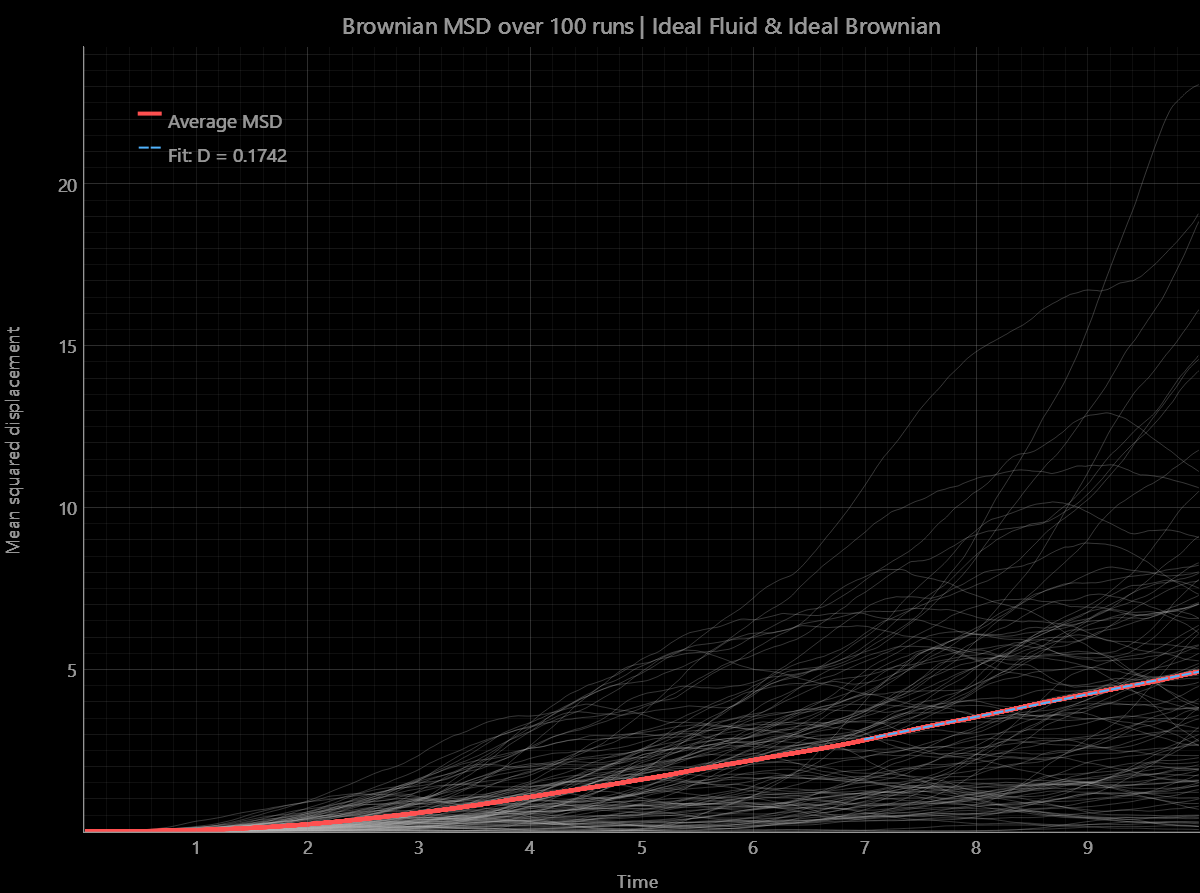
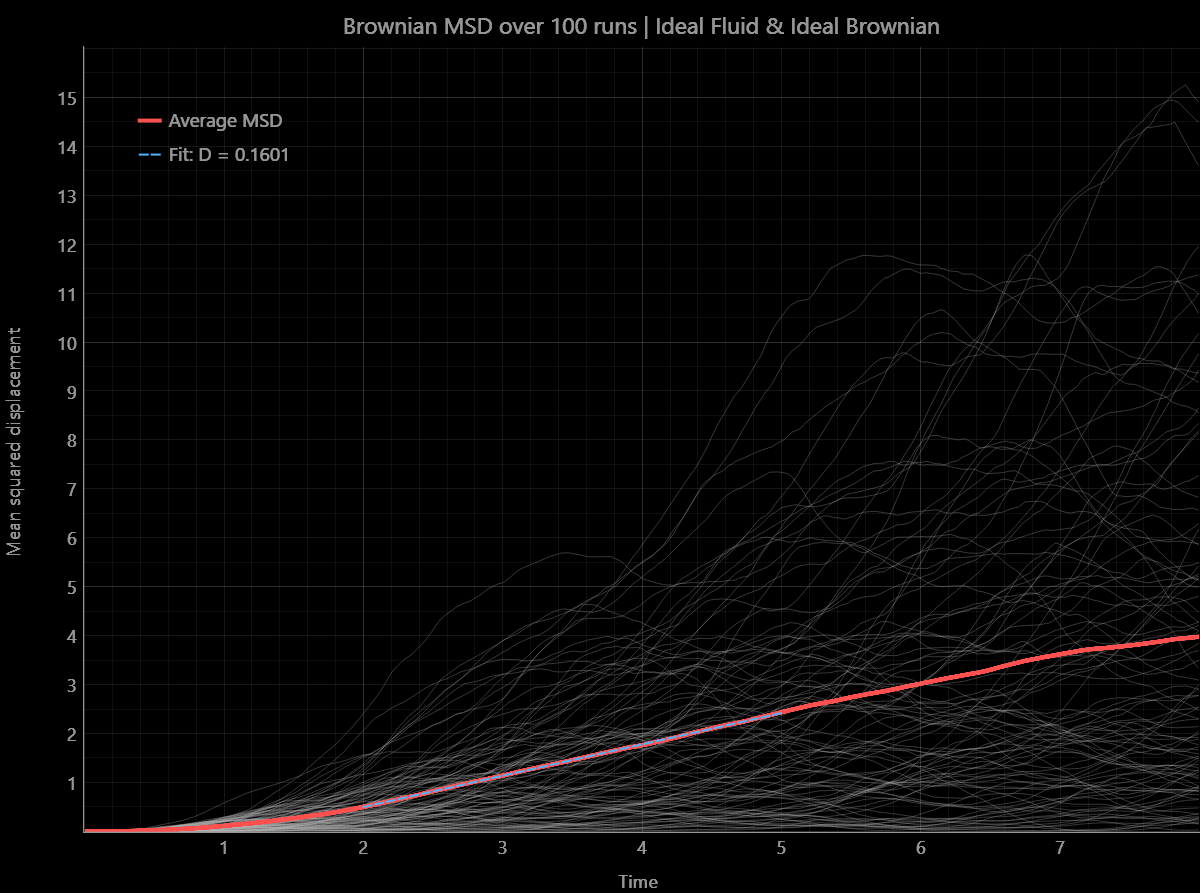
Added plots from sim runs

diff --git a/config/main_configs.py b/config/main_configs.py
@@ -68,9 +68,9 @@ DEBUG_CONFIG = {
 IDEAL_CONFIG = {
     # Simulation Settings
     "dt": 0.01,
-    "steps": 1000,
-    "box_size": 10.0,
-    "N": 1000,
+    "steps": 800,
+    "box_size": 8.0,
+    "N": 500,
     "live_render": False,
     "num_runs": 100,
     "plot_msd": True,
@@ -78,14 +78,14 @@ IDEAL_CONFIG = {
 
     # Properties of the fluid environment
     "fluid_velocity_std": [3,3],
-    "fluid_particle_radius": 0.05,
+    "fluid_particle_radius": 0.06,
     "fluid_particle_mass": 1.0,
 
     # Properties of the brownian particle
     "brownian_is_ideal_gas": True,
     "brownian_initial_velocity": [0, 0],
     "brownian_particle_radius": 0.5,
-    "brownian_particle_mass": 100.0,
+    "brownian_particle_mass": 50.0,
 
     # LJ Potential parameters
     "use_LJ_potential": False,
@@ -101,9 +101,9 @@ IDEAL_CONFIG = {
 FUll_LJ_CONFIG_1 = {
     # Simulation Settings
     "dt": 0.0005,
-    "steps": 20000, #20000
-    "box_size": 10.0,
-    "N": 1000,
+    "steps": 16000,
+    "box_size": 8.0,
+    "N": 500,
     "live_render": False,
     "num_runs": 100,
     "plot_msd": True,
@@ -111,14 +111,14 @@ FUll_LJ_CONFIG_1 = {
 
     # Properties of the fluid environment
     "fluid_velocity_std": [3,3],
-    "fluid_particle_radius": 0.05,
+    "fluid_particle_radius": 0.06,
     "fluid_particle_mass": 1.0,
 
     # Properties of the brownian particle
     "brownian_is_ideal_gas": True,
     "brownian_initial_velocity": [0, 0],
     "brownian_particle_radius": 0.5,
-    "brownian_particle_mass": 100.0,
+    "brownian_particle_mass": 50.0,
 
     # LJ Potential parameters
     "use_LJ_potential": True,
@@ -133,9 +133,9 @@ FUll_LJ_CONFIG_1 = {
 FUll_LJ_CONFIG_2 = {
     # Simulation Settings
     "dt": 0.0005,
-    "steps": 20000, #20000
-    "box_size": 10.0,
-    "N": 1000,
+    "steps": 16000,
+    "box_size": 8.0,
+    "N": 500,
     "live_render": False,
     "num_runs": 100,
     "plot_msd": True,
@@ -143,14 +143,14 @@ FUll_LJ_CONFIG_2 = {
 
     # Properties of the fluid environment
     "fluid_velocity_std": [3,3],
-    "fluid_particle_radius": 0.05,
+    "fluid_particle_radius": 0.06,
     "fluid_particle_mass": 1.0,
 
     # Properties of the brownian particle
     "brownian_is_ideal_gas": True,
     "brownian_initial_velocity": [0, 0],
     "brownian_particle_radius": 0.5,
-    "brownian_particle_mass": 100.0,
+    "brownian_particle_mass": 50.0,
 
     # LJ Potential parameters
     "use_LJ_potential": True,
@@ -165,9 +165,9 @@ FUll_LJ_CONFIG_2 = {
 FUll_LJ_CONFIG_3 = {
     # Simulation Settings
     "dt": 0.0005,
-    "steps": 20000, #20000
-    "box_size": 10.0,
-    "N": 1000,
+    "steps": 16000,
+    "box_size": 8.0,
+    "N": 500,
     "live_render": False,
     "num_runs": 100,
     "plot_msd": True,
@@ -175,14 +175,14 @@ FUll_LJ_CONFIG_3 = {
 
     # Properties of the fluid environment
     "fluid_velocity_std": [3,3],
-    "fluid_particle_radius": 0.05,
+    "fluid_particle_radius": 0.06,
     "fluid_particle_mass": 1.0,
 
     # Properties of the brownian particle
     "brownian_is_ideal_gas": True,
     "brownian_initial_velocity": [0, 0],
     "brownian_particle_radius": 0.5,
-    "brownian_particle_mass": 100.0,
+    "brownian_particle_mass": 50.0,
 
     # LJ Potential parameters
     "use_LJ_potential": True,
@@ -197,9 +197,9 @@ FUll_LJ_CONFIG_3 = {
 FUll_LJ_CONFIG_4 = {
     # Simulation Settings
     "dt": 0.0005,
-    "steps": 20000, #20000
-    "box_size": 10.0,
-    "N": 1000,
+    "steps": 16000,
+    "box_size": 8.0,
+    "N": 500,
     "live_render": False,
     "num_runs": 100,
     "plot_msd": True,
@@ -207,14 +207,14 @@ FUll_LJ_CONFIG_4 = {
 
     # Properties of the fluid environment
     "fluid_velocity_std": [3,3],
-    "fluid_particle_radius": 0.05,
+    "fluid_particle_radius": 0.06,
     "fluid_particle_mass": 1.0,
 
     # Properties of the brownian particle
     "brownian_is_ideal_gas": True,
     "brownian_initial_velocity": [0, 0],
     "brownian_particle_radius": 0.5,
-    "brownian_particle_mass": 100.0,
+    "brownian_particle_mass": 50.0,
 
     # LJ Potential parameters
     "use_LJ_potential": True,
@@ -229,9 +229,9 @@ FUll_LJ_CONFIG_4 = {
 FUll_LJ_CONFIG_5 = {
     # Simulation Settings
     "dt": 0.0005,
-    "steps": 20000, #20000
-    "box_size": 10.0,
-    "N": 1000,
+    "steps": 16000,
+    "box_size": 8.0,
+    "N": 500,
     "live_render": False,
     "num_runs": 100,
     "plot_msd": True,
@@ -239,14 +239,14 @@ FUll_LJ_CONFIG_5 = {
 
     # Properties of the fluid environment
     "fluid_velocity_std": [3,3],
-    "fluid_particle_radius": 0.05,
+    "fluid_particle_radius": 0.06,
     "fluid_particle_mass": 1.0,
 
     # Properties of the brownian particle
     "brownian_is_ideal_gas": True,
     "brownian_initial_velocity": [0, 0],
     "brownian_particle_radius": 0.5,
-    "brownian_particle_mass": 100.0,
+    "brownian_particle_mass": 50.0,
 
     # LJ Potential parameters
     "use_LJ_potential": True,
@@ -261,9 +261,9 @@ FUll_LJ_CONFIG_5 = {
 FUll_LJ_CONFIG_6 = {
     # Simulation Settings
     "dt": 0.0005,
-    "steps": 20000, #20000
-    "box_size": 10.0,
-    "N": 1000,
+    "steps": 16000,
+    "box_size": 8.0,
+    "N": 500,
     "live_render": False,
     "num_runs": 100,
     "plot_msd": True,
@@ -271,18 +271,147 @@ FUll_LJ_CONFIG_6 = {
 
     # Properties of the fluid environment
     "fluid_velocity_std": [3,3],
-    "fluid_particle_radius": 0.05,
+    "fluid_particle_radius": 0.06,
     "fluid_particle_mass": 1.0,
 
     # Properties of the brownian particle
     "brownian_is_ideal_gas": True,
     "brownian_initial_velocity": [0, 0],
     "brownian_particle_radius": 0.5,
-    "brownian_particle_mass": 100.0,
+    "brownian_particle_mass": 50.0,
 
     # LJ Potential parameters
     "use_LJ_potential": True,
     "use_LJ_for_brownian_to_fluid": True,
+    "LJ_epsilon": 9/8, # 8 kT/e
+
+    # Render Settings - for when Live render is true
+    "render_every": 10,
+    "draw_boundary": True,
+    "draw_brownian_trail": True,
+}
+FUll_LJ_CONFIG_7 = {
+    # Simulation Settings
+    "dt": 0.0005,
+    "steps": 16000,
+    "box_size": 8.0,
+    "N": 500,
+    "live_render": False,
+    "num_runs": 100,
+    "plot_msd": True,
+    "save_plot": True,
+
+    # Properties of the fluid environment
+    "fluid_velocity_std": [3,3],
+    "fluid_particle_radius": 0.06,
+    "fluid_particle_mass": 1.0,
+
+    # Properties of the brownian particle
+    "brownian_is_ideal_gas": True,
+    "brownian_initial_velocity": [0, 0],
+    "brownian_particle_radius": 0.5,
+    "brownian_particle_mass": 50.0,
+
+    # LJ Potential parameters
+    "use_LJ_potential": True,
+    "use_LJ_for_brownian_to_fluid": True,
+    "LJ_epsilon": 9/16, # 16 kT/e
+
+    # Render Settings - for when Live render is true
+    "render_every": 10,
+    "draw_boundary": True,
+    "draw_brownian_trail": True,
+}
+
+HALF_LJ_CONFIG_1 = {
+    # Simulation Settings
+    "dt": 0.0005,
+    "steps": 16000,
+    "box_size": 8.0,
+    "N": 500,
+    "live_render": False,
+    "num_runs": 100,
+    "plot_msd": True,
+    "save_plot": True,
+
+    # Properties of the fluid environment
+    "fluid_velocity_std": [3,3],
+    "fluid_particle_radius": 0.06,
+    "fluid_particle_mass": 1.0,
+
+    # Properties of the brownian particle
+    "brownian_is_ideal_gas": True,
+    "brownian_initial_velocity": [0, 0],
+    "brownian_particle_radius": 0.5,
+    "brownian_particle_mass": 50.0,
+
+    # LJ Potential parameters
+    "use_LJ_potential": True,
+    "use_LJ_for_brownian_to_fluid": False,
+    "LJ_epsilon": 9*4, # 8 kT/e
+
+    # Render Settings - for when Live render is true
+    "render_every": 10,
+    "draw_boundary": True,
+    "draw_brownian_trail": True,
+}
+HALF_LJ_CONFIG_2 = {
+    # Simulation Settings
+    "dt": 0.0005,
+    "steps": 16000,
+    "box_size": 8.0,
+    "N": 500,
+    "live_render": False,
+    "num_runs": 100,
+    "plot_msd": True,
+    "save_plot": True,
+
+    # Properties of the fluid environment
+    "fluid_velocity_std": [3,3],
+    "fluid_particle_radius": 0.06,
+    "fluid_particle_mass": 1.0,
+
+    # Properties of the brownian particle
+    "brownian_is_ideal_gas": True,
+    "brownian_initial_velocity": [0, 0],
+    "brownian_particle_radius": 0.5,
+    "brownian_particle_mass": 50.0,
+
+    # LJ Potential parameters
+    "use_LJ_potential": True,
+    "use_LJ_for_brownian_to_fluid": False,
+    "LJ_epsilon": 9, # 1 kT/e
+
+    # Render Settings - for when Live render is true
+    "render_every": 10,
+    "draw_boundary": True,
+    "draw_brownian_trail": True,
+}
+HALF_LJ_CONFIG_3 = {
+    # Simulation Settings
+    "dt": 0.0005,
+    "steps": 16000,
+    "box_size": 8.0,
+    "N": 500,
+    "live_render": False,
+    "num_runs": 100,
+    "plot_msd": True,
+    "save_plot": True,
+
+    # Properties of the fluid environment
+    "fluid_velocity_std": [3,3],
+    "fluid_particle_radius": 0.06,
+    "fluid_particle_mass": 1.0,
+
+    # Properties of the brownian particle
+    "brownian_is_ideal_gas": True,
+    "brownian_initial_velocity": [0, 0],
+    "brownian_particle_radius": 0.5,
+    "brownian_particle_mass": 50.0,
+
+    # LJ Potential parameters
+    "use_LJ_potential": True,
+    "use_LJ_for_brownian_to_fluid": False,
     "LJ_epsilon": 9/8, # 8 kT/e
 
     # Render Settings - for when Live render is true
